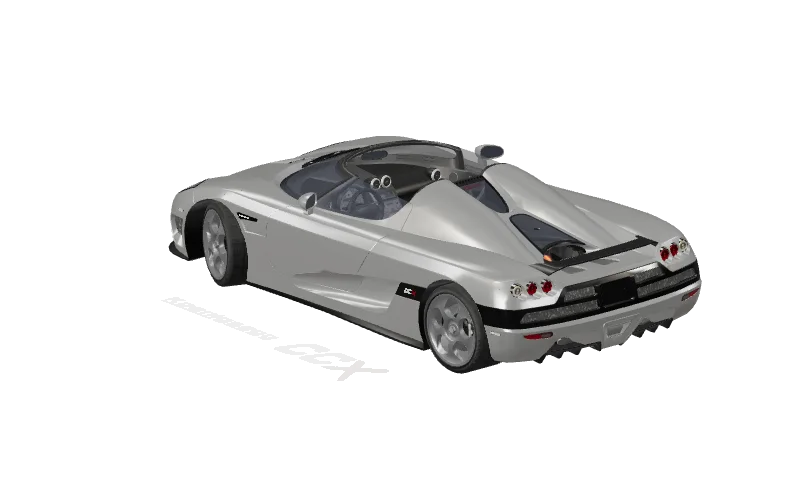
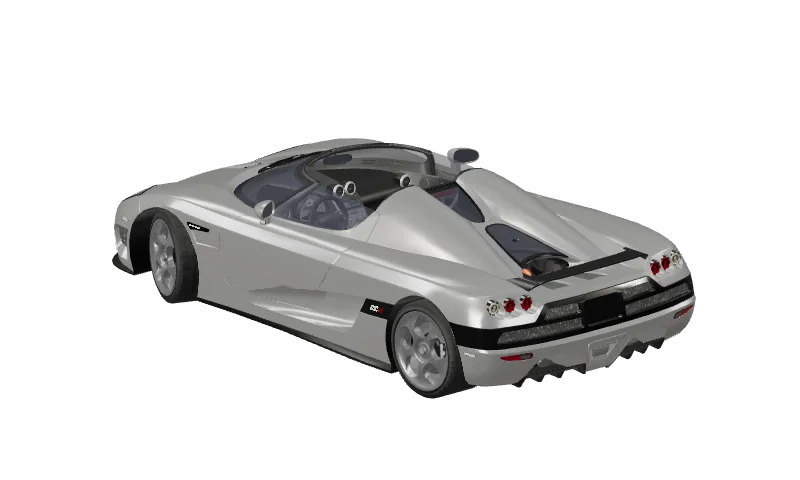
fix: exclude CCX display captions from vehicle bounds

Changed region(s): [[0.125, 0.2812, 0.875, 0.8438]]

diff --git a/content/VEHICLE_MODEL_CREDITS.md b/content/VEHICLE_MODEL_CREDITS.md
@@ -135,7 +135,7 @@ Authored proportions and textures retained; bounded-error mesh simplification, W
 ## CAR65 · 科尼赛克 CCX
 
 [2007 Koenigsegg CCX (No Roof)](https://sketchfab.com/3d-models/none-423b64e085974b97b5cfd5a87d9dcce3) · [_shobh19](https://sketchfab.com/s0h1o9b) · [CC BY 4.0](https://creativecommons.org/licenses/by/4.0/)。
-Authored proportions and textures retained; bounded-error mesh simplification, WebP texture resizing and meshopt compression. App uses uniform fitting and camera controls.
+Authored proportions and textures retained; bounded-error mesh simplification, WebP texture resizing and meshopt compression. App uses uniform fitting and camera controls. Presentation ground and two caption planes omitted from the app and derived renders.
 
 ## CAR66 · 阿斯顿·马丁 DB11
 
